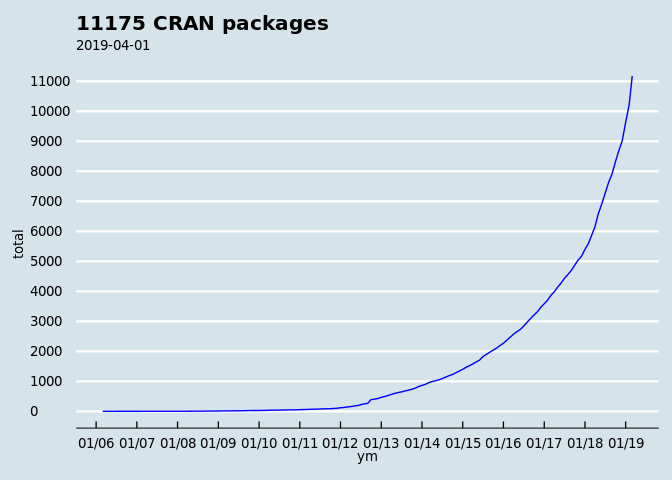
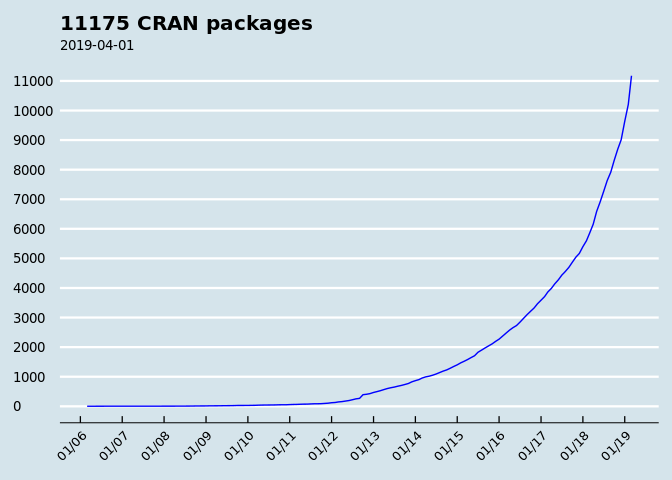
rotated axis labels

diff --git a/README.md b/README.md
@@ -9,9 +9,6 @@ This shows one how to scrape data directly from a website 🕸 (an html table of
 ``` r
 library(tidyverse)
 library(ggthemes)
-library(lubridate)
-library(hash)
-library(tictoc)
 ```
 
 > Loads functionality to decode and plot CRAN data 💻
@@ -19,6 +16,15 @@ library(tictoc)
 ``` r
 source("count_cran.R")
 ```
+
+    ## 
+    ## Attaching package: 'lubridate'
+
+    ## The following object is masked from 'package:base':
+    ## 
+    ##     date
+
+    ## hash-2.2.6.1 provided by Decision Patterns
 
 > Reads package table (as html) from CRAN and decode it into a dataframe: 👨💻
 
@@ -55,9 +61,7 @@ df_cran %>%
 > Plots it! 💹
 
 ``` r
-df_cran %>%
-  plot_cran_df +
-  theme_economist()
+df_cran %>% plot_cran_df
 ```
 
 ![](README_files/figure-markdown_github/unnamed-chunk-5-1.png)
